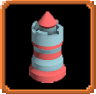
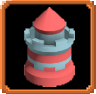
New tower buttons, ghost towers now look like the tower you selected

Changed region(s): [[0.25, 0.0638, 0.7812, 0.9362]]

diff --git a/core/src/main/org/lordsofchaos/Game.java b/core/src/main/org/lordsofchaos/Game.java
@@ -140,11 +140,11 @@ public class Game extends ApplicationAdapter implements InputProcessor {
         if (player == 0) {
             // DEFENDER
             if (buildMode) {
-                Texture tmpTower = new Texture(Gdx.files.internal("towers/sprites/TowerType1.png"));
+                Texture tmpTower = new Texture(Gdx.files.internal("towers/sprites/" + ghostTowerType.getSpriteName() + ".png"));
                 Sprite tmpSpriteTower = new Sprite(tmpTower);
                 RealWorldCoordinates rwc = snap(Gdx.input.getX(), Gdx.input.getY());
 
-                if (GameController.verifyTowerPlacement(TowerType.type1, rwc))
+                if (GameController.verifyTowerPlacement(ghostTowerType, rwc))
                     renderer.getBatch().setColor(0, 1, 0, 0.5f);
                 else renderer.getBatch().setColor(1, 0, 0, 0.5f);
 
@@ -317,14 +317,12 @@ public class Game extends ApplicationAdapter implements InputProcessor {
             if (button == Buttons.LEFT)  {
                 if (buildMode) {
                     // Place tower
-                    System.out.println("TEST1");
                     mouseClicked = true;
                     RealWorldCoordinates rwc = snap(Gdx.input.getX(), Gdx.input.getY());
-                    if (GameController.verifyTowerPlacement(TowerType.type1, rwc)) {
+                    if (GameController.verifyTowerPlacement(ghostTowerType, rwc)) {
                         selectSound.play(0.75f);
-                        EventManager.towerPlaced(TowerType.type1, rwc);
+                        EventManager.towerPlaced(ghostTowerType, rwc);
                         buildMode = false;
-                        System.out.println("TEST");
                     }
 
                 } else {

diff --git a/core/src/main/org/lordsofchaos/graphics/buttons/TowerButton.java b/core/src/main/org/lordsofchaos/graphics/buttons/TowerButton.java
@@ -13,7 +13,7 @@ public class TowerButton extends Button {
     }
 
     public void leftButtonAction() {
-        System.out.println("Pressed TOWER BUTTON!!!!!");
+        System.out.println(towerType);
        selectSound.play(0.75f);
        Game.instance.buildTrue();
        Game.instance.setGhostTowerType(towerType);
